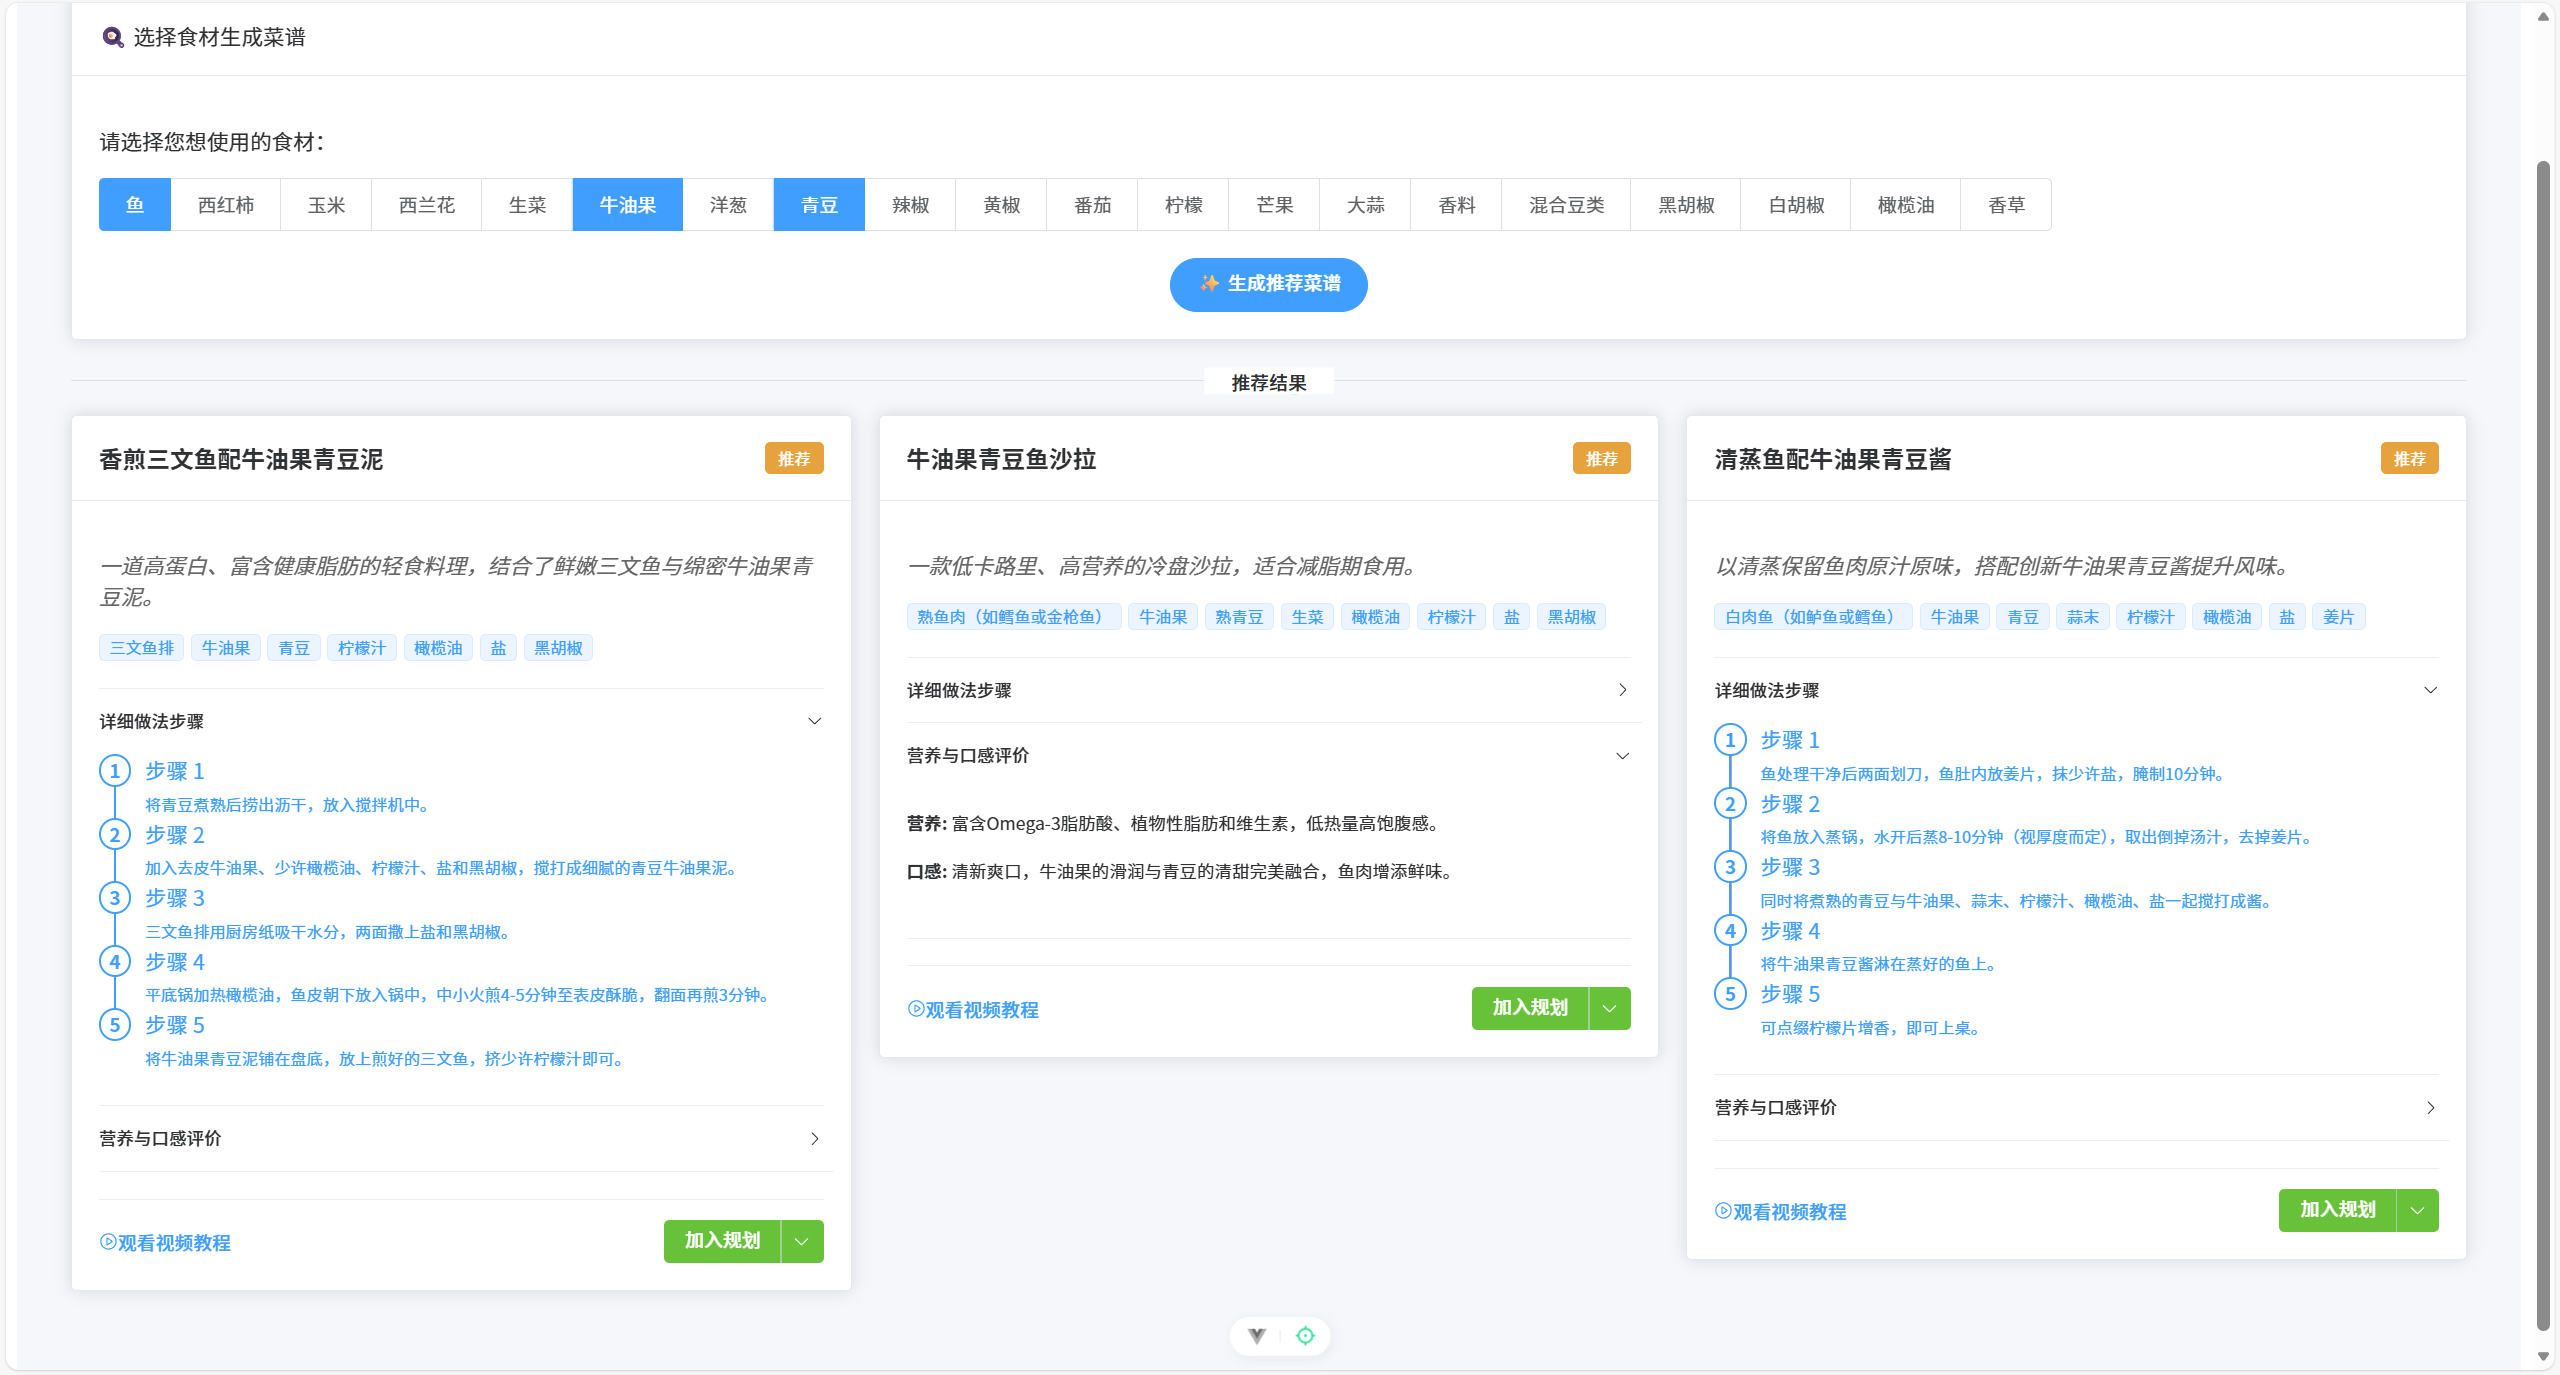
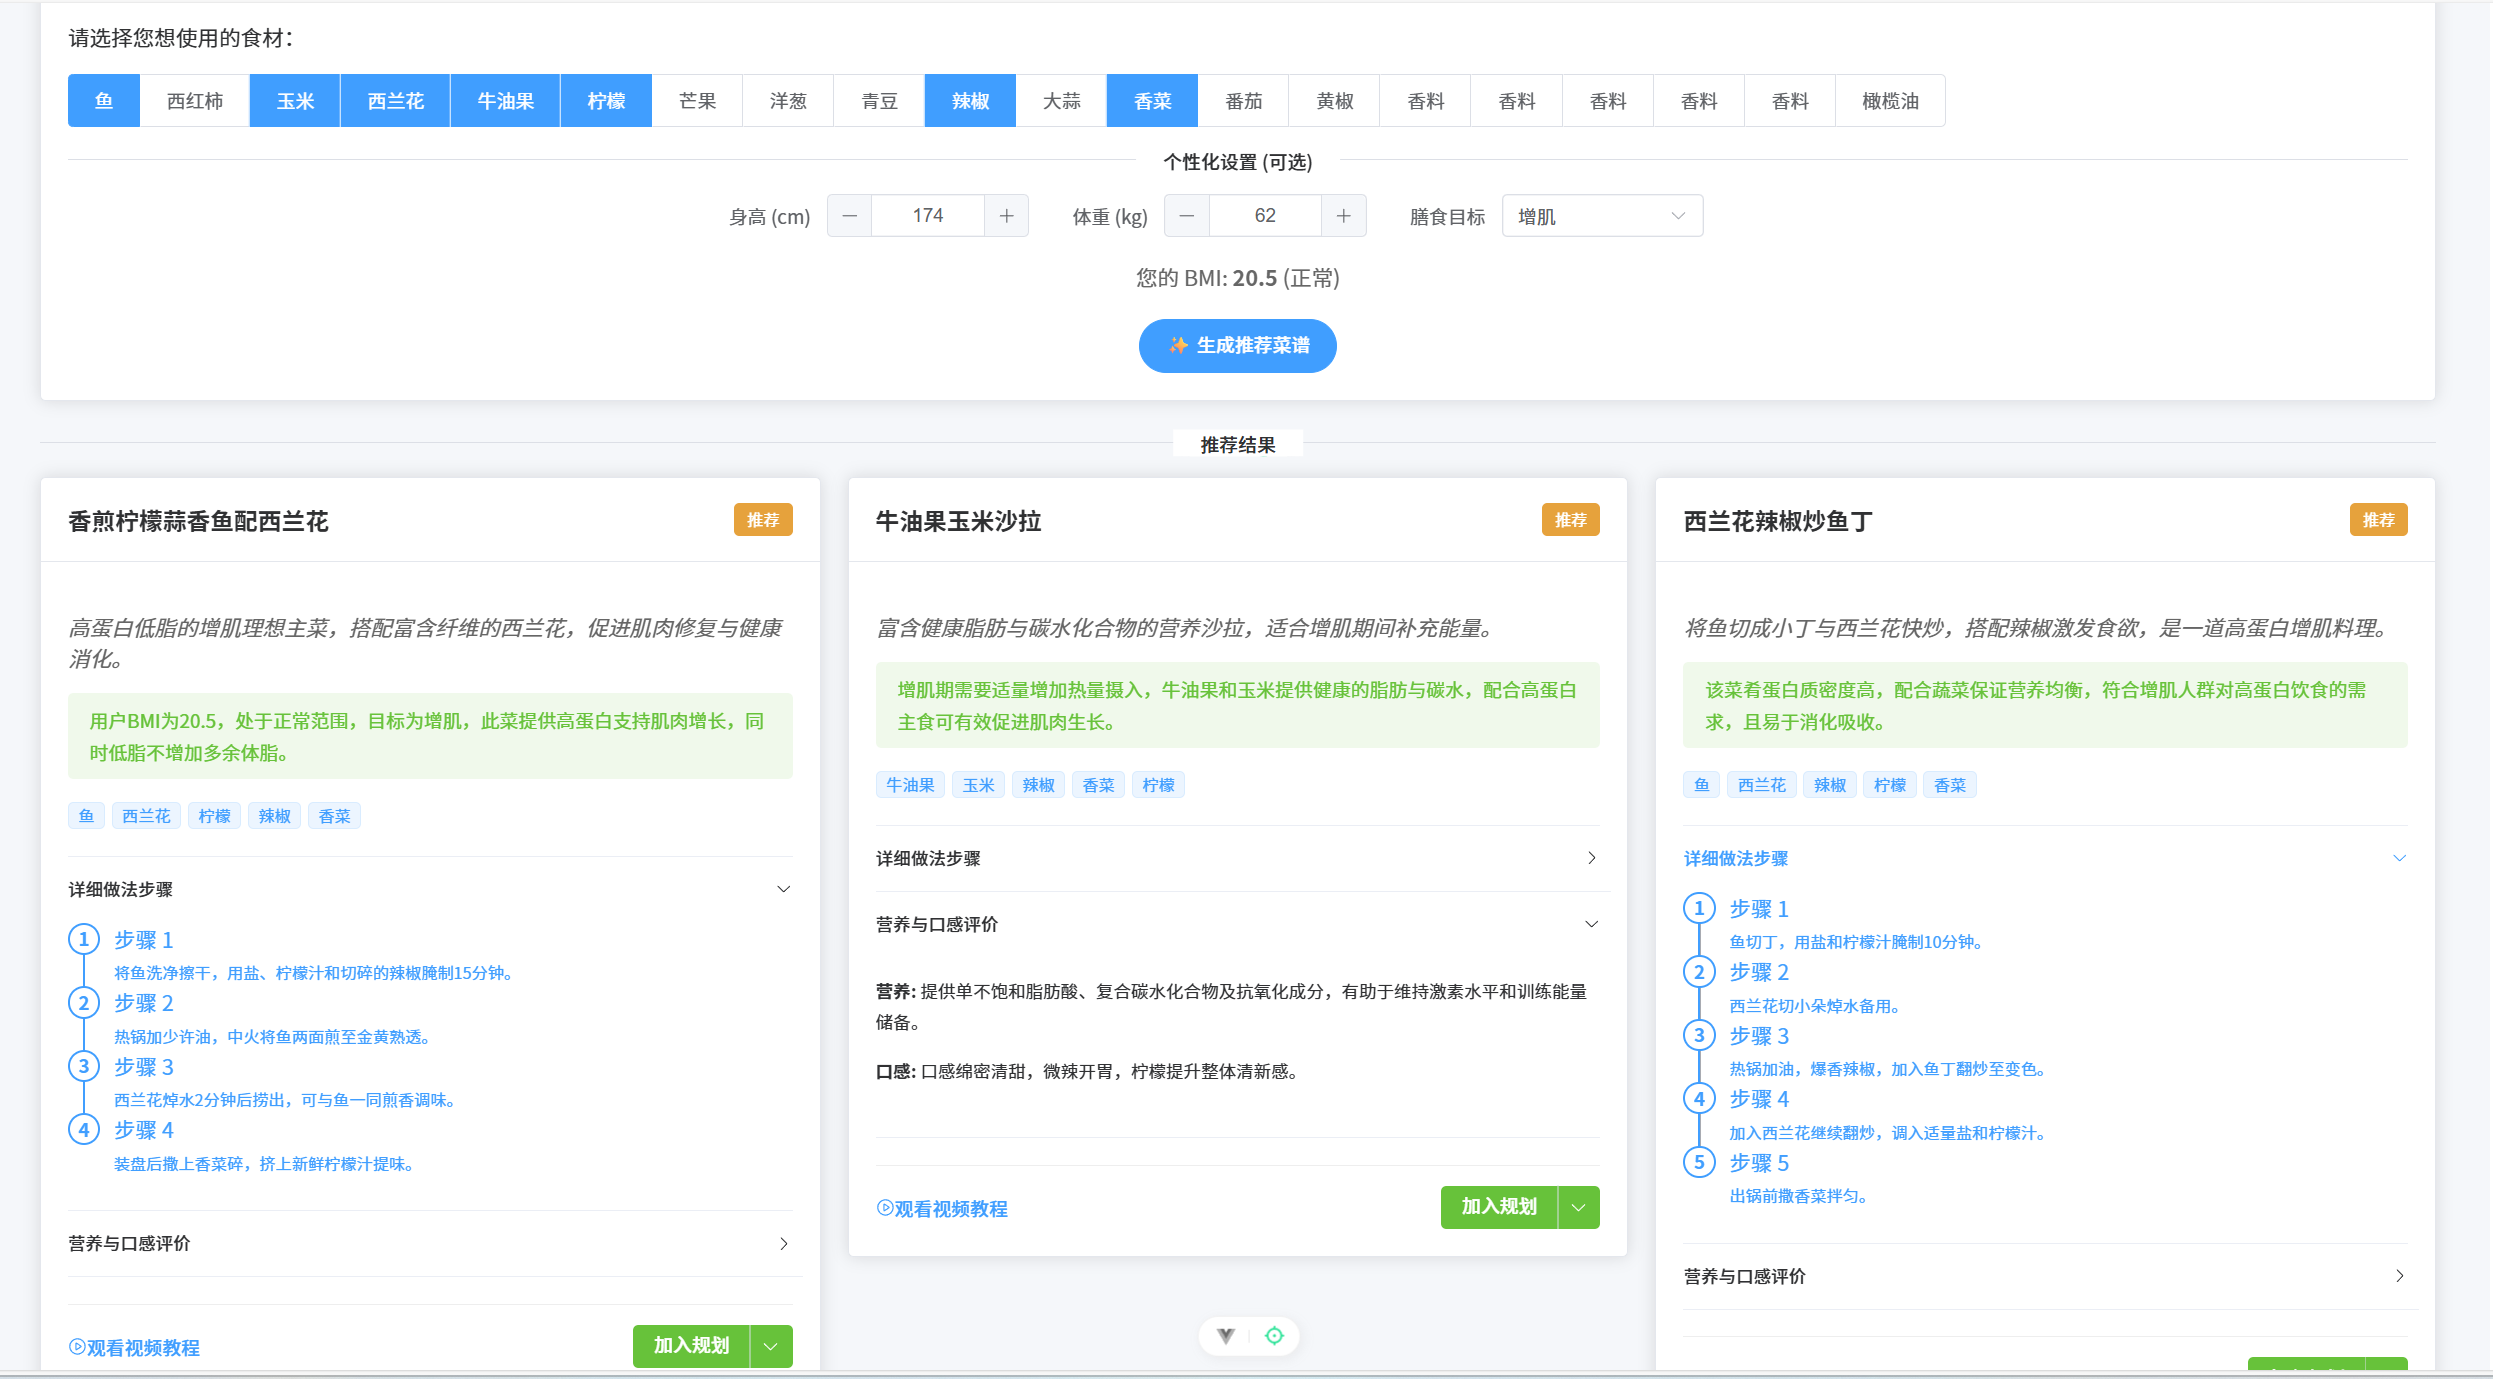
V2.0

diff --git a/FrontEnd/Nutri-X/src/views/Recipes.vue b/FrontEnd/Nutri-X/src/views/Recipes.vue
@@ -19,6 +19,34 @@
           </el-checkbox-button>
         </el-checkbox-group>
 
+        <el-divider content-position="center">个性化设置 (可选)</el-divider>
+
+        <el-form :inline="true" class="profile-form">
+          <el-form-item label="身高 (cm)">
+            <el-input-number v-model="height" :min="50" :max="250" />
+          </el-form-item>
+          <el-form-item label="体重 (kg)">
+            <el-input-number v-model="weight" :min="20" :max="200" />
+          </el-form-item>
+          <el-form-item label="膳食目标">
+            <el-select
+              v-model="goal"
+              placeholder="请选择目标"
+              style="width: 150px"
+            >
+              <el-option label="均衡饮食" value="均衡饮食" />
+              <el-option label="减脂" value="减脂" />
+              <el-option label="增肌" value="增肌" />
+              <el-option label="低碳水" value="低碳水" />
+              <el-option label="高蛋白" value="高蛋白" />
+            </el-select>
+          </el-form-item>
+        </el-form>
+
+        <div v-if="bmi" class="bmi-display">
+          您的 BMI: <strong>{{ bmi }}</strong> ({{ bmiStatus }})
+        </div>
+
         <div class="actions">
           <el-button
             type="primary"
@@ -55,6 +83,14 @@
             </template>
 
             <p class="description">{{ recipe.description }}</p>
+
+            <el-alert
+              v-if="recipe.recommendation_reason"
+              :title="recipe.recommendation_reason"
+              type="success"
+              :closable="false"
+              class="reason-alert"
+            />
 
             <div class="tags">
               <el-tag
@@ -117,7 +153,7 @@
 </template>
 
 <script setup>
-import { ref } from "vue";
+import { ref, computed } from "vue";
 import { store } from "../store";
 import { recommendRecipes } from "../api";
 import { ElMessage, ElNotification } from "element-plus";
@@ -125,6 +161,26 @@ import { VideoPlay } from "@element-plus/icons-vue";
 
 const selectedIngredients = ref([]);
 const loading = ref(false);
+const height = ref(null);
+const weight = ref(null);
+const goal = ref("均衡饮食");
+
+const bmi = computed(() => {
+  if (height.value && weight.value) {
+    const h = height.value / 100;
+    return (weight.value / (h * h)).toFixed(1);
+  }
+  return null;
+});
+
+const bmiStatus = computed(() => {
+  if (!bmi.value) return "";
+  const val = parseFloat(bmi.value);
+  if (val < 18.5) return "偏瘦";
+  if (val < 24) return "正常";
+  if (val < 28) return "超重";
+  return "肥胖";
+});
 
 const generateRecipes = async () => {
   if (selectedIngredients.value.length === 0) {
@@ -134,7 +190,13 @@ const generateRecipes = async () => {
 
   loading.value = true;
   try {
-    const res = await recommendRecipes(selectedIngredients.value);
+    const userProfile = {
+      height: height.value,
+      weight: weight.value,
+      bmi: bmi.value,
+      goal: goal.value,
+    };
+    const res = await recommendRecipes(selectedIngredients.value, userProfile);
     if (res.data.status === "success") {
       store.setRecommendations(res.data.data);
       ElMessage.success("菜谱生成成功！");
@@ -164,6 +226,18 @@ const addToPlan = (meal, dishName) => {
 }
 .selection-card {
   margin-bottom: 30px;
+}
+.profile-form {
+  margin-top: 20px;
+  text-align: center;
+}
+.bmi-display {
+  text-align: center;
+  margin-bottom: 10px;
+  color: #666;
+}
+.reason-alert {
+  margin-bottom: 15px;
 }
 .actions {
   margin-top: 20px;

diff --git a/FrontEnd/Nutri-X/vite.config.js b/FrontEnd/Nutri-X/vite.config.js
@@ -1,18 +1,23 @@
-import { fileURLToPath, URL } from 'node:url'
+import { fileURLToPath, URL } from "node:url";
 
-import { defineConfig } from 'vite'
-import vue from '@vitejs/plugin-vue'
-import vueDevTools from 'vite-plugin-vue-devtools'
+import { defineConfig } from "vite";
+import vue from "@vitejs/plugin-vue";
+import vueDevTools from "vite-plugin-vue-devtools";
 
 // https://vite.dev/config/
 export default defineConfig({
-  plugins: [
-    vue(),
-    vueDevTools(),
-  ],
+  plugins: [vue(), vueDevTools()],
   resolve: {
     alias: {
-      '@': fileURLToPath(new URL('./src', import.meta.url))
+      "@": fileURLToPath(new URL("./src", import.meta.url)),
     },
   },
-})
+  server: {
+    proxy: {
+      "/api": {
+        target: "http://localhost:8000",
+        changeOrigin: true,
+      },
+    },
+  },
+});

diff --git a/FrontEnd/Nutri-X/src/api/index.js b/FrontEnd/Nutri-X/src/api/index.js
@@ -2,7 +2,7 @@ import axios from "axios";
 import { store } from "../store";
 
 const api = axios.create({
-  baseURL: "http://localhost:8000/api",
+  baseURL: "/api", // 使用相对路径，配合开发环境代理和生产环境 Nginx 反向代理
   timeout: 60000, // 识别图片可能需要较长时间
 });
 
@@ -27,8 +27,8 @@ export const identifyIngredients = (formData) => {
   });
 };
 
-export const recommendRecipes = (ingredients) => {
-  return api.post("/recommend", { ingredients });
+export const recommendRecipes = (ingredients, userProfile = {}) => {
+  return api.post("/recommend", { ingredients, user_profile: userProfile });
 };
 
 export const evaluateMealPlan = (plan) => {

diff --git a/server.py b/server.py
@@ -1,5 +1,7 @@
 from fastapi import FastAPI, UploadFile, File, HTTPException, Header
 from fastapi.middleware.cors import CORSMiddleware
+from fastapi.staticfiles import StaticFiles
+from fastapi.responses import FileResponse
 from pydantic import BaseModel
 from typing import List, Dict, Optional
 import uvicorn
@@ -34,6 +36,7 @@ def configure_api_key(x_api_key: Optional[str] = Header(None)):
 
 class IngredientsRequest(BaseModel):
     ingredients: List[str]
+    user_profile: Optional[Dict] = {}
 
 class MealPlanRequest(BaseModel):
     plan: Dict[str, List[str]]
@@ -88,7 +91,7 @@ async def identify_ingredients(file: UploadFile = File(...), x_api_key: Optional
 async def recommend_recipes(request: IngredientsRequest, x_api_key: Optional[str] = Header(None)):
     try:
         configure_api_key(x_api_key)
-        recommendations = utils.recommend_recipes(request.ingredients)
+        recommendations = utils.recommend_recipes(request.ingredients, request.user_profile)
         return {"status": "success", "data": recommendations}
     except Exception as e:
         return {"status": "error", "message": str(e)}
@@ -101,6 +104,31 @@ async def evaluate_plan(request: MealPlanRequest, x_api_key: Optional[str] = Hea
         return {"status": "success", "report": report}
     except Exception as e:
         return {"status": "error", "message": str(e)}
+
+# -------------------------------------------------------------------------
+# 静态文件服务 (前端合并到后端)
+# -------------------------------------------------------------------------
+
+# 1. 挂载静态资源目录 (JS, CSS, Images)
+# 确保 dist/assets 存在才挂载，避免开发环境报错
+if os.path.exists("dist/assets"):
+    app.mount("/assets", StaticFiles(directory="dist/assets"), name="assets")
+
+# 2. SPA 路由捕获 (处理 Vue Router 的 History 模式)
+# 必须放在所有 API 路由之后
+@app.get("/{full_path:path}")
+async def serve_spa(full_path: str):
+    # 尝试直接访问文件 (如 favicon.ico, robots.txt)
+    file_path = os.path.join("dist", full_path)
+    if os.path.exists(file_path) and os.path.isfile(file_path):
+        return FileResponse(file_path)
+    
+    # 如果文件不存在，且不是 API 请求，则返回 index.html
+    # 让前端路由去处理页面跳转
+    if os.path.exists("dist/index.html"):
+        return FileResponse("dist/index.html")
+    
+    return {"error": "Frontend not built or dist folder missing"}
 
 if __name__ == "__main__":
     uvicorn.run(app, host="0.0.0.0", port=8000)

diff --git a/utils.py b/utils.py
@@ -103,12 +103,22 @@ def get_nutrition_info(ingredients_list):
         print(f"Exception: {str(e)}")
         return []
 
-def recommend_recipes(selected_ingredients):
+def recommend_recipes(selected_ingredients, user_profile=None):
     """
-    根据选择的食材推荐菜肴
+    根据选择的食材和用户画像推荐菜肴
     """
+    profile_text = ""
+    if user_profile and user_profile.get('bmi'):
+        profile_text = f"""
+        用户身体数据：
+        - BMI: {user_profile.get('bmi')}
+        - 膳食目标: {user_profile.get('goal', '均衡饮食')}
+        请根据用户的BMI和目标，调整推荐的菜谱（例如减脂期推荐低脂低碳，增肌期推荐高蛋白）。
+        """
+
     prompt = f"""
     我手头有以下食材：{', '.join(selected_ingredients)}。
+    {profile_text}
     请为我推荐 3 道适合用这些食材制作的佳肴。
     请以严格的 JSON 格式返回数据，不要包含 Markdown 格式标记。
     返回格式为一个列表，每个元素包含：
@@ -118,6 +128,7 @@ def recommend_recipes(selected_ingredients):
     - steps: 详细做法步骤（字符串列表）
     - nutrition_eval: 营养价值评价
     - taste_eval: 口感偏好评价
+    - recommendation_reason: 结合用户BMI和目标的推荐理由（如果提供了用户数据）
     - video_keyword: 用于搜索该菜做法视频的关键词（例如“西红柿炒鸡蛋 做法”）
     """
     
